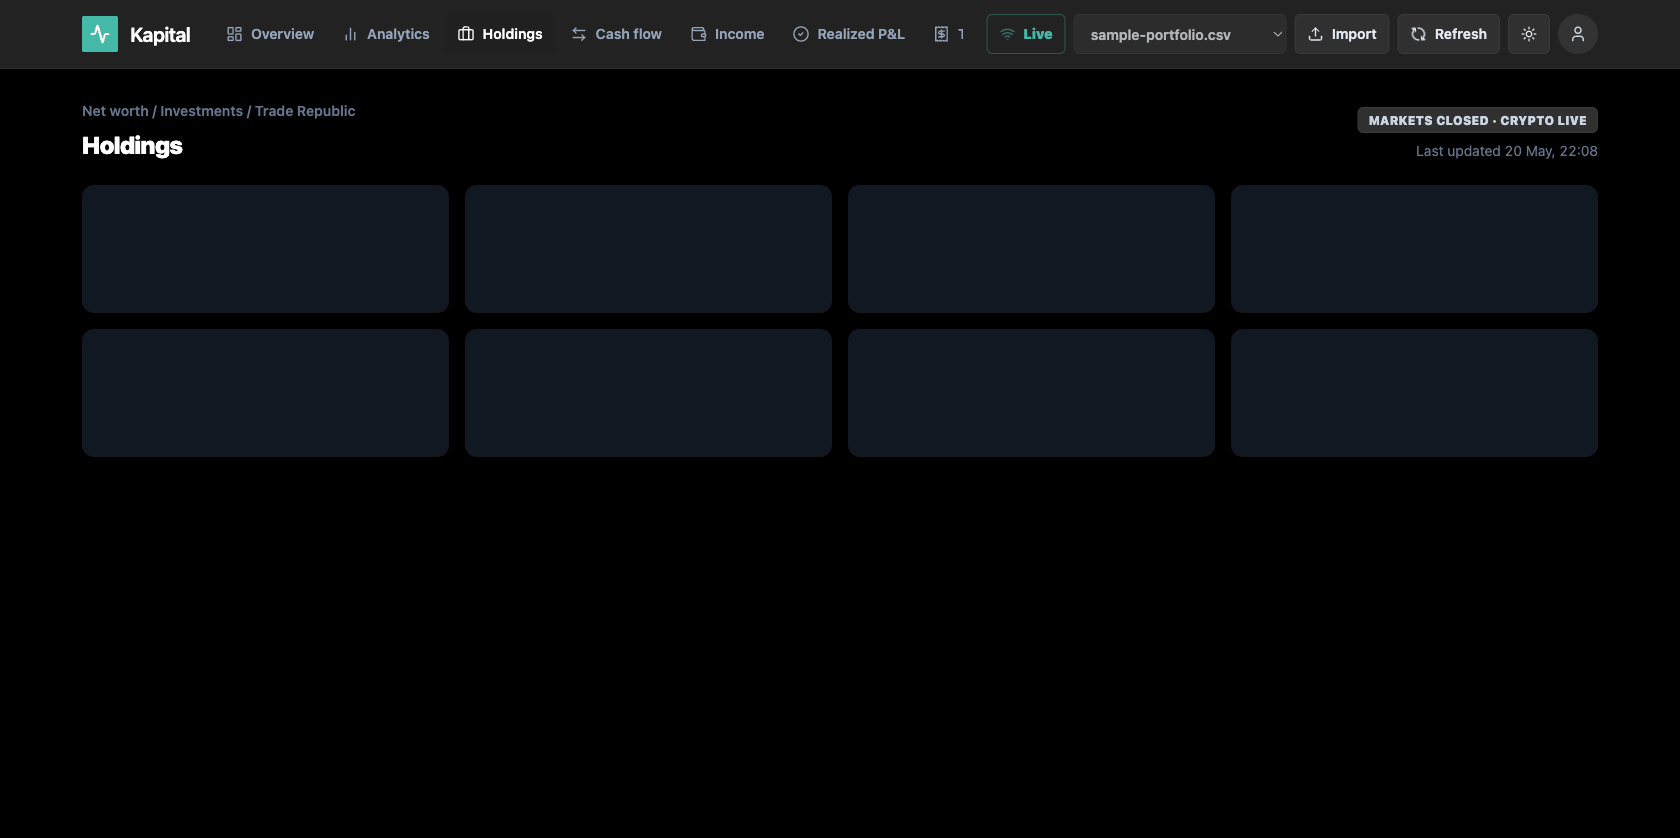
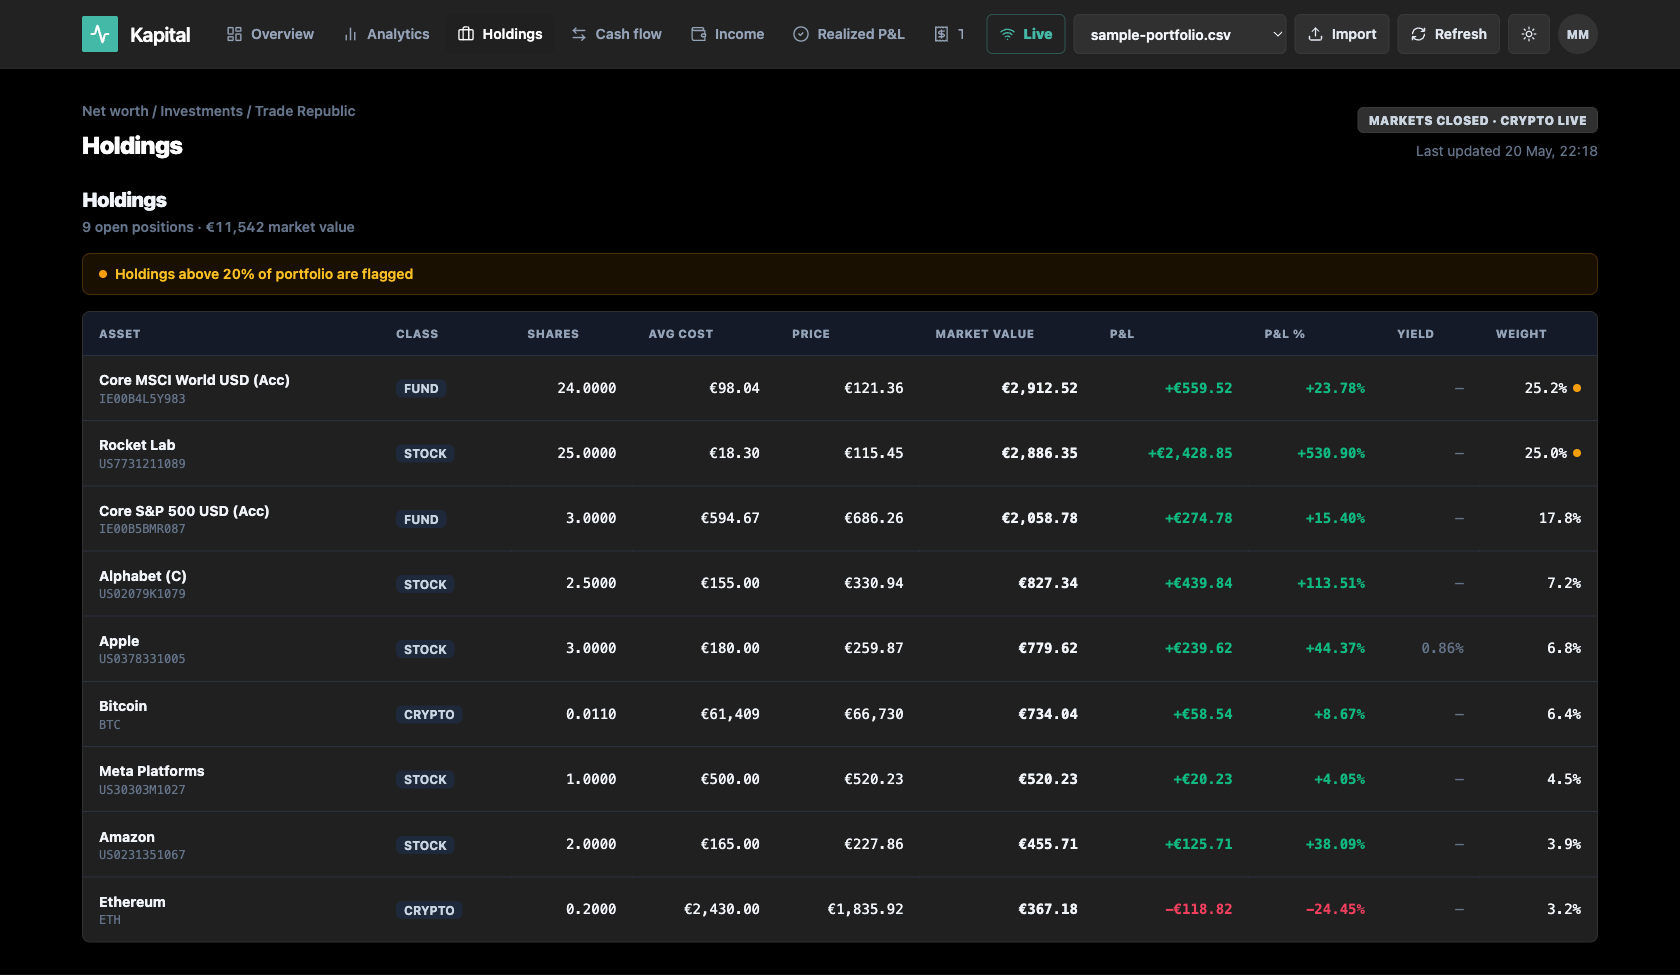
docs: rewrite README with current screenshots and accurate feature list
- Full README rewrite: modern layout, all 10 views described, project
  layout expanded to match current file structure
- Retake holdings screenshot (was a loading skeleton)
- Add watchlist screenshot
- All screenshots now use sample-portfolio.csv (Max's data, no PII)

diff --git a/README.md b/README.md
@@ -1,130 +1,164 @@
 # Kapital
 
-A self-hosted portfolio dashboard for Trade Republic CSV exports. It parses exported transactions, refreshes market prices, and shows portfolio value, allocation, positions, income, realized P&L, tax allowance usage, watchlist items, rebalancing, and long-term goals.
+> Self-hosted portfolio analytics for Trade Republic — live prices, allocation, performance, tax, and FIRE projections in one dark-mode dashboard.
 
-The repo includes `exports/sample-portfolio.csv`, so the app can run without private account data.
+The repo ships with `exports/sample-portfolio.csv` so you can run the app immediately without any private data.
+
+---
 
 ## Screenshots
 
-| Overview | Analytics |
-|---|---|
-| ![Overview](docs/screenshot-overview.png) | ![Analytics](docs/screenshot-analytics.png) |
+![Overview](docs/screenshot-overview.png)
 
-| Holdings | Tax |
+| Analytics | Holdings |
 |---|---|
-| ![Holdings](docs/screenshot-holdings.png) | ![Tax](docs/screenshot-tax.png) |
+| ![Analytics](docs/screenshot-analytics.png) | ![Holdings](docs/screenshot-holdings.png) |
 
-| Income | Realized P&L |
+| Tax & FSA tracker | Rebalance |
 |---|---|
-| ![Income](docs/screenshot-income.png) | ![Realized P&L](docs/screenshot-realized.png) |
+| ![Tax](docs/screenshot-tax.png) | ![Rebalance](docs/screenshot-rebalance.png) |
 
-| Cash flow | Rebalance |
+| Income | Goals / FIRE |
 |---|---|
-| ![Cash flow](docs/screenshot-cashflow.png) | ![Rebalance](docs/screenshot-rebalance.png) |
+| ![Income](docs/screenshot-income.png) | ![Goals](docs/screenshot-goals.png) |
 
-## Tech Stack
+| Cash flow | Realized P&L |
+|---|---|
+| ![Cash flow](docs/screenshot-cashflow.png) | ![Realized P&L](docs/screenshot-realized.png) |
+
+---
+
+## What it does
+
+Kapital parses your Trade Republic CSV export and gives you a live portfolio view with:
+
+- **Live prices** via yfinance — refreshed on demand or every 60 s in the background
+- **Market status badge** — shows whether EU / US markets are open or closed
+- **Performance chart** with 1D / 1W / 1M / YTD / 1Y / Max range selector
+- **Allocation** — donut + treemap position wall, switchable by type / positions / regions / sectors
+- **Positions table** with per-range P&L (1D through Max)
+- **Analytics** — Sharpe ratio, max drawdown, monthly returns heatmap, geographic exposure, TWR, XIRR
+- **Tax** — Freistellungsauftrag (FSA) allowance tracker with breakdown by dividends, interest, stock perks, and realized gains
+- **Income** — dividend and interest log with TTM yield per holding
+- **Realized P&L** — closed-trade history with per-trade gain/loss
+- **Rebalance** — enter target weights, see suggested buy/sell amounts
+- **Goals / FIRE** — FIRE number calculator and 10-year growth projection
+- **Watchlist** — persisted asset watchlist with target prices (SQLite)
+
+---
+
+## Tech stack
 
 | Layer | Tech |
 |---|---|
 | Backend | Python 3.12, FastAPI, pandas, yfinance |
-| Frontend | React 19, TypeScript, Vite, Tailwind CSS, ApexCharts |
-| Persistence | CSV exports plus SQLite for the watchlist |
-| Tooling | uv, npm, Docker Compose |
+| Frontend | React 19, TypeScript, Vite, Tailwind CSS v4, ApexCharts |
+| Persistence | CSV exports + SQLite watchlist |
+| Serving | uvicorn (local) · Nginx + Docker Compose (production) |
+| Tooling | uv, npm, mkcert / openssl |
 
-## Run Locally
+---
 
-Prerequisites: Python 3.12+, Node 20+, and `uv`.
+## Run locally
+
+**Prerequisites:** Python 3.12+, Node 20+, [`uv`](https://github.com/astral-sh/uv)
 
 ```bash
 npm install
 uv sync
-make run
+make run          # builds frontend, generates TLS cert, starts FastAPI
 ```
 
-Open `https://127.0.0.1:8765/overview`.
+Open **`https://127.0.0.1:8765`** — the browser will warn about the self-signed cert on first run.
 
-`make run` builds the frontend and starts FastAPI with the local TLS certificate in `certs/`. The direct command is:
+### Useful make targets
 
 ```bash
-uv run uvicorn api:app --host 0.0.0.0 --port 8765 --ssl-keyfile certs/key.pem --ssl-certfile certs/cert.pem
+make dev          # same as run but with backend auto-reload
+make stop         # kill whatever is listening on PORT (default 8765)
+make frontend     # rebuild the Vite bundle only
+make typecheck    # run tsc --noEmit
+make cache        # wipe the yfinance price cache
+make exports      # list CSV files in exports/
 ```
 
-Useful targets:
+Override defaults:
 
 ```bash
-make dev          # rebuild and run with backend reload
-make typecheck    # TypeScript check
-make frontend     # frontend build only
-make cache        # clear live-price cache
-make stop         # stop the process using PORT
+PORT=9000 make run
+PRICE_REFRESH_SECONDS=120 make run
 ```
 
-## Run With Docker
+---
+
+## Run with Docker
 
 ```bash
 docker compose up --build
 ```
 
-| URL | Behavior |
+| URL | |
 |---|---|
 | `http://localhost` | Redirects to HTTPS |
-| `https://localhost` | Serves the app through Nginx |
+| `https://localhost` | Serves the app via Nginx |
 
-Volumes:
+**Volumes:**
 
 | Mount | Purpose |
 |---|---|
-| `./exports` | Local CSV exports |
-| `kapital-db` | SQLite watchlist database |
+| `./exports` | Your CSV exports (mounted read-write) |
+| `kapital-db` | Named volume for the SQLite watchlist |
 
-## Import Data
+---
 
-1. In Trade Republic, export the transaction history CSV.
-2. Put the CSV in `exports/`, or use the app header's **Import** control.
-3. Select the export from the header dropdown when multiple exports exist.
+## Import your data
 
-The selected export is stored locally in the browser. It is not exposed in the visible app route.
+1. In Trade Republic, open **Settings → Export → Transaction history** and download the CSV.
+2. Drop the file into `exports/`, or use the **Import** button in the app header.
+3. If multiple exports exist, pick one from the header dropdown.
 
-## Features
+The active export is stored in `localStorage` — it is never appended to the URL.
 
-| View | What It Shows |
-|---|---|
-| Overview | Live portfolio value, allocation donut, allocation wall, range chart, positions, movers, quick stats |
-| Analytics | Monthly returns, annual P&L, allocation, geographic exposure, drawdown and risk metrics |
-| Holdings | Current positions, shares, average cost, market value, unrealized P&L, yield, concentration flags |
-| Cash flow | Cash balance history and inflow/outflow breakdown |
-| Income | Dividends, interest, stock perks, and dividend calendar |
-| Realized P&L | Closed trades with per-trade gains and losses |
-| Tax | Tax rows plus Freistellungsauftrag allowance tracker |
-| Watchlist | Persisted watchlist items with target prices |
-| Rebalance | Target weights and suggested buy/sell amounts |
-| Goals / FIRE | FIRE calculator, custom goal tracker, and projection |
+---
 
 ## Prices
 
-Prices are fetched through `yfinance`, cached briefly, and converted to EUR where needed. The default live cache window is 60 seconds and can be changed with:
+Prices are fetched from Yahoo Finance via `yfinance`, cached in memory, and converted to EUR where needed.
 
-```bash
-PRICE_REFRESH_SECONDS=120 make run
+- Automatic background refresh every 60 s while the browser tab is active
+- Manual **Refresh** button forces a live fetch bypassing the cache
+- `cache/` holds ISIN→ticker mappings (runtime state, git-ignored)
+- Set `PRICE_REFRESH_SECONDS=N` to change the in-memory TTL
+
+---
+
+## Project layout
+
 ```
-
-Ticker discovery results are cached under `cache/`. The cache is runtime state and is intentionally ignored by Git.
-
-## Watchlist Database
-
-The watchlist uses SQLite. Local runs create `portfolio.db` in the project root. Docker runs set `WATCHLIST_DB=db/portfolio.db`, which stores the database in the `kapital-db` named volume.
-
-`portfolio.db` is runtime data and should not be committed.
-
-## Project Layout
-
-```text
-api.py                  FastAPI entry point and SPA fallback
+api.py                  FastAPI entry point + SPA fallback (Cache-Control: no-store on index.html)
 app/
-  deps.py               Shared state cache and helpers
-  routers/              API routes
-portfolio/              CSV parsing, cash, holdings, prices, returns, SQLite watchlist
-src/                    React and TypeScript frontend
-exports/                CSV exports; sample data is committed
-nginx/                  Docker HTTPS reverse proxy
+  deps.py               In-memory state cache, shared across requests
+  routers/
+    portfolio.py        summary, holdings, performance, position_returns, tax, asset detail
+    analytics.py        analytics, geographic, FSA, dividend calendar
+    core.py             exports, upload, refresh_prices
+    watchlist.py        CRUD watchlist (SQLite)
+  schemas.py            Pydantic response models
+portfolio/
+  cash.py               Deposit/withdrawal parsing, income log, cash balance
+  holdings.py           Position and cost-basis calculation
+  performance.py        TWR, drawdown, benchmark series
+  prices.py             yfinance fetcher, ISIN→ticker mapping, EUR conversion
+  returns.py            XIRR, Sharpe, best/worst days
+  db.py                 SQLite watchlist schema
+src/                    React + TypeScript frontend (Vite)
+  App.tsx               Shell, routing, live-refresh loop, market status
+  api.ts                Typed fetch wrappers for all endpoints
+  components/
+    views/              One file per section (Overview, Analytics, Holdings, …)
+    charts/             HeroChart (ApexCharts wrapper)
+    ui/                 Card, Skeleton, ProgressBar, InfoModal, …
+  lib/                  format.ts, chart.ts, sections.ts
+exports/                CSV files — only sample-portfolio.csv is committed
+nginx/                  Nginx config + Dockerfile for Docker Compose
 ```